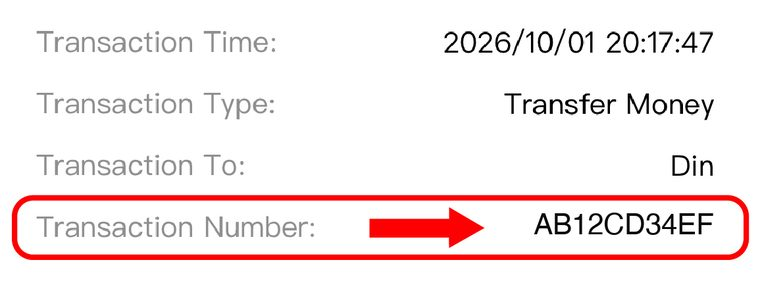
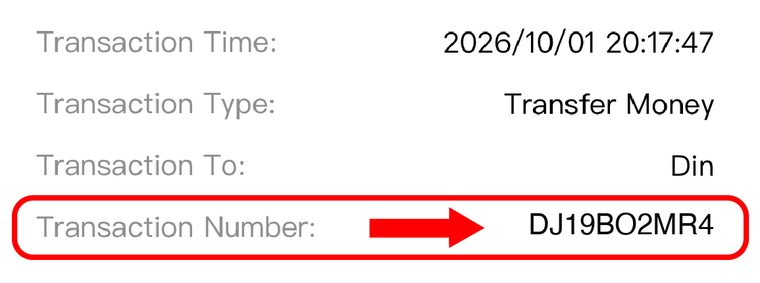
DJ-style example code, prominent amount, centered language chooser, no-flicker fixed bar

Changed region(s): [[0.6961, 0.735, 0.9382, 0.8481]]

diff --git a/i18n.js b/i18n.js
@@ -150,12 +150,12 @@
     "telebirr number": "የቴሌብር ቁጥር", "COPY": "ቅዳ", "Name shown in telebirr": "በቴሌብር የሚታየው ስም",
     "Step 02 — Enter your transaction number": "ደረጃ 02 — የግብይት ቁጥርዎን ያስገቡ",
     "After paying, open the telebirr receipt (or the SMS) and find the Transaction Number — 10 letters and numbers, like": "ከከፈሉ በኋላ የቴሌብር ደረሰኙን (ወይም SMSኡን) ከፍተው የግብይት ቁጥሩን (Transaction Number) ይፈልጉ — 10 ፊደሎችና ቁጥሮች፣ ለምሳሌ",
-    "e.g. AB12CD34EF": "ለምሳሌ AB12CD34EF", "CONFIRM PAYMENT": "ክፍያውን አረጋግጥ",
+    "e.g. DJ19BO2MR4": "ለምሳሌ DJ19BO2MR4", "CONFIRM PAYMENT": "ክፍያውን አረጋግጥ",
     "Being confirmed": "በማረጋገጥ ላይ", "We’re confirming your payment by hand.": "ክፍያዎን እያረጋገጥን ነው።", "Transaction": "ግብይት",
     "is with the registry office. This page unlocks by itself once it’s confirmed — you can close it and come back with the link below.": "በመዝገብ ቢሮው እየታየ ነው። ሲረጋገጥ ይህ ገጽ በራሱ ይከፈታል — ገጹን ዘግተው ከታች ባለው ሊንክ መመለስ ይችላሉ።",
     "Your private order link": "የግል የትዕዛዝ ሊንክዎ", "Keep it to come back to this order.": "ወደዚህ ትዕዛዝ ለመመለስ ያስቀምጡት።",
     "COPY LINK": "ሊንኩን ቅዳ", "Digital registration. No physical stone included. Questions?": "ዲጂታል ምዝገባ። አካላዊ ድንጋይ አይካተትም። ጥያቄ አለዎት?",
-    "Awaiting payment": "ክፍያ በመጠባበቅ ላይ", "Removed": "ተወግዷል",
+    "Awaiting payment": "ክፍያ በመጠባበቅ ላይ", "Amount": "መጠን", "Removed": "ተወግዷል",
     "transaction number is": "የግብይት ቁጥሩ", "↑ Copy the Transaction Number into the box below": "↑ የግብይት ቁጥሩን (Transaction Number) ከታች ባለው ሳጥን ውስጥ ያስገቡ",
     "telebirr receipt with the Transaction Number highlighted": "የግብይት ቁጥሩ የተመለከተበት የቴሌብር ደረሰኝ",
     "Checking your payment": "ክፍያዎን በማጣራት ላይ", "seconds": "ሰከንድ", "We’re matching transaction": "የግብይት ቁጥር",
@@ -170,7 +170,7 @@
     "Enter the transaction number from your telebirr SMS.": "ከቴሌብር SMS የግብይት ቁጥሩን ያስገቡ።",
     "This link is incomplete.": "ይህ ሊንክ ያልተሟላ ነው።", "Network error — check your connection and try again.": "የኔትወርክ ችግር — ግንኙነትዎን አረጋግጠው እንደገና ይሞክሩ።",
     /* server messages */
-    "That doesn’t look like a telebirr transaction ID. It’s the 10-character code in your SMS, e.g. AB12CD34EF.": "ይህ የቴሌብር የግብይት ቁጥር አይመስልም። በSMS ውስጥ ያለው ባለ 10 ሆሄ ኮድ ነው፣ ለምሳሌ AB12CD34EF።",
+    "That doesn’t look like a telebirr transaction ID. It’s the 10-character code in your SMS, e.g. DJ19BO2MR4.": "ይህ የቴሌብር የግብይት ቁጥር አይመስልም። በSMS ውስጥ ያለው ባለ 10 ሆሄ ኮድ ነው፣ ለምሳሌ DJ19BO2MR4።",
     "This transaction ID has already been used for another order.": "ይህ የግብይት ቁጥር ለሌላ ትዕዛዝ ጥቅም ላይ ውሏል።",
     "Too many attempts. Please contact us.": "በጣም ብዙ ሙከራዎች። እባክዎ ያግኙን።", "Order not found.": "ትዕዛዙ አልተገኘም።",
     "Add a recipient and your name.": "የተቀባዩን ስምና የእርስዎን ስም ያስገቡ።", "Unknown Dinguy.": "ያልታወቀ ድንጋይ።",
@@ -394,25 +394,30 @@
   function chooser() {
     if (stored()) return;
     var css = document.createElement('style');
-    css.textContent = '@keyframes dgl-in{from{opacity:0;transform:translate3d(-50%,16px,0)}to{opacity:1;transform:translate3d(-50%,0,0)}}' +
-      '#dg-lang{position:fixed;left:50%;bottom:calc(84px + env(safe-area-inset-bottom));z-index:150;width:min(calc(100vw - 24px),380px);transform:translate3d(-50%,0,0);' +
-      'background:rgba(11,23,32,.94);-webkit-backdrop-filter:blur(16px);backdrop-filter:blur(16px);color:#eef2f4;border:1px solid rgba(238,242,244,.2);' +
-      'box-shadow:0 24px 60px -20px rgba(0,0,0,.7);padding:16px;font-family:"Helvetica Neue",Helvetica,Arial,"Noto Sans Ethiopic",sans-serif;animation:dgl-in .45s cubic-bezier(.2,.8,.2,1) both}' +
-      '#dg-lang .k{font-family:"IBM Plex Mono",ui-monospace,monospace;font-size:10px;letter-spacing:.08em;text-transform:uppercase;color:#a9bccb}' +
-      '#dg-lang .q{margin:6px 0 12px;font-size:18px;font-weight:600;letter-spacing:-.01em}' +
-      '#dg-lang .r{display:grid;grid-template-columns:1fr 1fr;gap:8px}' +
-      '#dg-lang button{min-height:48px;border:1px solid rgba(238,242,244,.35);background:transparent;color:#eef2f4;font:inherit;font-size:15px;font-weight:600;cursor:pointer;touch-action:manipulation;-webkit-tap-highlight-color:transparent}' +
-      '#dg-lang button.on{background:#eef2f4;color:#0b1720;border-color:#eef2f4}';
+    css.textContent = '@keyframes dgl-in{from{opacity:0;transform:translate3d(-50%,-46%,0) scale(.96)}to{opacity:1;transform:translate3d(-50%,-50%,0) scale(1)}}' +
+      '@keyframes dgl-fade{from{opacity:0}to{opacity:1}}' +
+      '#dg-lang-bg{position:fixed;inset:0;z-index:149;background:rgba(0,0,0,.6);animation:dgl-fade .3s ease both;touch-action:none}' +
+      '#dg-lang{position:fixed;left:50%;top:50%;z-index:150;width:min(calc(100vw - 32px),380px);transform:translate3d(-50%,-50%,0);' +
+      'background:#f2c230;color:#0b0b0b;border-radius:22px;box-shadow:0 30px 80px -20px rgba(0,0,0,.8);padding:22px 18px 18px;text-align:center;' +
+      'font-family:"Helvetica Neue",Helvetica,Arial,"Noto Sans Ethiopic",sans-serif;animation:dgl-in .45s cubic-bezier(.2,.8,.2,1) both;-webkit-backface-visibility:hidden;backface-visibility:hidden}' +
+      '#dg-lang .k{font-family:"IBM Plex Mono",ui-monospace,monospace;font-size:11px;letter-spacing:.08em;text-transform:uppercase;color:rgba(11,11,11,.7)}' +
+      '#dg-lang .q{margin:8px 0 18px;font-size:22px;font-weight:700;letter-spacing:-.02em;line-height:1.2}' +
+      '#dg-lang .r{display:grid;grid-template-columns:1fr 1fr;gap:10px}' +
+      '#dg-lang button{min-height:60px;border-radius:14px;border:2px solid #0b0b0b;background:#0b0b0b;color:#f2c230;font:inherit;font-size:18px;font-weight:700;cursor:pointer;touch-action:manipulation;-webkit-tap-highlight-color:transparent}' +
+      '#dg-lang button[data-l=am]{background:#fff;color:#0b0b0b;border-color:#fff}';
     document.head.appendChild(css);
     var box = document.createElement('div');
     box.id = 'dg-lang'; box.setAttribute('role', 'dialog'); box.setAttribute('aria-label', 'Language / ቋንቋ');
     box.innerHTML = '<div class="k">Language · ቋንቋ</div><div class="q">Choose your language · ቋንቋ ይምረጡ</div>' +
-      '<div class="r"><button type="button" class="on" data-l="en">English</button><button type="button" data-l="am">አማርኛ</button></div>';
+      '<div class="r"><button type="button" data-l="en">English</button><button type="button" data-l="am">አማርኛ</button></div>';
     box.addEventListener('click', function (e) {
       var b = e.target.closest('button'); if (!b) return;
       if (b.getAttribute('data-l') === 'am') { window.dgLang.set('am'); return; }
-      save('en'); box.remove();
+      save('en'); box.remove(); var g = document.getElementById('dg-lang-bg'); if (g) g.remove();
     });
+    var bg = document.createElement('div'); bg.id = 'dg-lang-bg';
+    bg.addEventListener('click', function () { save('en'); bg.remove(); box.remove(); });
+    document.body.appendChild(bg);
     document.body.appendChild(box);
   }
   if (document.readyState === 'loading') document.addEventListener('DOMContentLoaded', function () { setTimeout(chooser, 600); });

diff --git a/index.html b/index.html
@@ -41,6 +41,7 @@ button,a,input,textarea,label,[role=button]{touch-action:manipulation;-webkit-ta
 .sw-ring::before{content:"";position:absolute;left:50%;top:50%;width:max(260%,180px);aspect-ratio:1;z-index:-1;background:conic-gradient(from 0deg,rgba(255,255,255,0) 0deg 230deg,rgba(255,255,255,.55) 300deg,#fff 345deg,rgba(255,255,255,0) 360deg);animation:sw-orbit 2.6s linear infinite;will-change:transform}
 @keyframes sw-orbit{from{transform:translate(-50%,-50%) rotate(0turn)}to{transform:translate(-50%,-50%) rotate(1turn)}}
 @keyframes sw-dots{0%,100%{opacity:.25}50%{opacity:1}}
+.dg-fixed{transform:translate3d(0,0,0);-webkit-backface-visibility:hidden;backface-visibility:hidden;will-change:transform;contain:layout paint}
 .dg-scroll{-webkit-overflow-scrolling:touch;overscroll-behavior-x:contain}
 .dg-overlay{overscroll-behavior:contain;-webkit-overflow-scrolling:touch}
 @media (pointer:coarse){
@@ -465,8 +466,9 @@ button,a,input,textarea,label,[role=button]{touch-action:manipulation;-webkit-ta
         <sc-if value="{{ po.note }}"><div role="alert" style="margin-top:20px;padding:14px 16px;background:#fbe9e7;border-left:3px solid #b3261e;font-size:15px;line-height:1.4">{{ po.note }}</div></sc-if>
         <section style="margin-top:32px">
           <div style="font-family:'IBM Plex Mono',ui-monospace,monospace;font-size:10px;letter-spacing:.08em;text-transform:uppercase;color:#435f73">Step 01 — Send the money</div>
-          <p style="margin:8px 0 0;font-size:17px;line-height:1.4">Send exactly <strong>{{ po.price }} Birr</strong> with telebirr to:</p>
+          <p style="margin:8px 0 0;font-size:17px;line-height:1.6">Send exactly <strong style="display:inline-block;padding:1px 8px;background:#ffd84d;color:#0b1720;font-size:22px;font-weight:800;letter-spacing:-.01em">{{ po.price }} Birr</strong> with telebirr to:</p>
           <div style="margin-top:12px;background:#0b1720;color:#e6ecef;padding:18px 16px">
+            <div style="display:flex;justify-content:space-between;align-items:baseline;gap:12px;padding-bottom:14px;margin-bottom:14px;border-bottom:1px solid rgba(230,236,239,.18)"><span style="font-family:'IBM Plex Mono',ui-monospace,monospace;font-size:10px;letter-spacing:.08em;text-transform:uppercase;color:#9fb6c6">Amount</span><span style="font-size:clamp(34px,10vw,44px);font-weight:800;letter-spacing:-.03em;line-height:1;color:#ffd84d">{{ po.price }} <span style="font-size:.5em;font-weight:700">Birr</span></span></div>
             <div style="display:flex;justify-content:space-between;align-items:center;gap:12px">
               <div><div style="font-family:'IBM Plex Mono',ui-monospace,monospace;font-size:10px;letter-spacing:.08em;text-transform:uppercase;color:#9fb6c6">telebirr number</div><div style="margin-top:4px;font-family:'IBM Plex Mono',ui-monospace,monospace;font-size:clamp(24px,6.4vw,34px);font-weight:500;letter-spacing:.02em">{{ po.phoneFmt }}</div></div>
               <button onClick="{{ copyPhone }}" style="flex:none;min-height:44px;padding:0 14px;background:#e6ecef;color:#0b1720;border:0;font-size:11px;font-weight:700;letter-spacing:.1em;cursor:pointer">COPY</button>
@@ -476,13 +478,13 @@ button,a,input,textarea,label,[role=button]{touch-action:manipulation;-webkit-ta
         </section>
         <section style="margin-top:28px">
           <label for="dg-txn" style="font-family:'IBM Plex Mono',ui-monospace,monospace;font-size:10px;letter-spacing:.08em;text-transform:uppercase;color:#435f73;display:block">Step 02 — Enter your transaction number</label>
-          <p style="margin:8px 0 0;font-size:15px;line-height:1.45;color:#2c4556">After paying, open the telebirr receipt (or the SMS) and find the Transaction Number — 10 letters and numbers, like <span style="font-family:'IBM Plex Mono',ui-monospace,monospace;color:#0b1720">AB12CD34EF</span>.</p>
+          <p style="margin:8px 0 0;font-size:15px;line-height:1.45;color:#2c4556">After paying, open the telebirr receipt (or the SMS) and find the Transaction Number — 10 letters and numbers, like <span style="font-family:'IBM Plex Mono',ui-monospace,monospace;color:#0b1720">DJ19BO2MR4</span>.</p>
           <figure style="margin:12px 0 0;max-width:380px">
             <img src="assets/telebirr-transaction-number.jpg" width="760" height="283" alt="telebirr receipt with the Transaction Number highlighted" loading="lazy" decoding="async" style="display:block;width:100%;height:auto;background:#fff;border:1px solid rgba(11,23,32,.14);border-radius:14px;box-shadow:0 14px 30px -22px rgba(0,0,0,.45)">
             <figcaption style="margin-top:8px;font-size:12px;font-weight:600;color:#0b1720">↑ Copy the Transaction Number into the box below</figcaption>
           </figure>
           <form onSubmit="{{ verifyPay }}" style="margin-top:12px;display:flex;flex-direction:column;gap:10px">
-            <input id="dg-txn" value="{{ po.txnInput }}" onChange="{{ setTxn }}" placeholder="e.g. AB12CD34EF" autocomplete="off" autocapitalize="characters" spellcheck="false" inputmode="text" maxlength="14" style="display:block;width:100%;height:60px;background:#f3f5f6;border:1px solid rgba(11,23,32,.3);padding:0 16px;font-family:'IBM Plex Mono',ui-monospace,monospace;font-size:22px;letter-spacing:.06em;text-transform:uppercase;outline:none;border-radius:0">
+            <input id="dg-txn" value="{{ po.txnInput }}" onChange="{{ setTxn }}" placeholder="e.g. DJ19BO2MR4" autocomplete="off" autocapitalize="characters" spellcheck="false" inputmode="text" maxlength="14" style="display:block;width:100%;height:60px;background:#f3f5f6;border:1px solid rgba(11,23,32,.3);padding:0 16px;font-family:'IBM Plex Mono',ui-monospace,monospace;font-size:22px;letter-spacing:.06em;text-transform:uppercase;outline:none;border-radius:0">
             <button type="submit" style="display:flex;align-items:center;justify-content:space-between;height:60px;padding:0 20px;background:#0b1720;color:#e6ecef;border:0;font-size:12px;font-weight:600;letter-spacing:.1em;cursor:pointer">CONFIRM PAYMENT<span>→</span></button>
             <div role="alert" style="min-height:1.3em;font-size:15px;line-height:1.4;color:#b3261e">{{ po.error }}</div>
           </form>
@@ -870,7 +872,7 @@ button,a,input,textarea,label,[role=button]{touch-action:manipulation;-webkit-ta
 
 <!-- STICKY MOBILE CTA -->
 <sc-if value="{{ showBar }}">
-  <div style="position:fixed;left:0;right:0;bottom:0;z-index:40;padding:10px 12px;padding-bottom:max(16px,env(safe-area-inset-bottom));background:linear-gradient(rgba(0,0,0,0),rgba(0,0,0,.35));pointer-events:none">
+  <div class="dg-fixed" style="position:fixed;left:0;right:0;bottom:0;z-index:40;padding:10px 12px;padding-bottom:max(16px,env(safe-area-inset-bottom));pointer-events:none">
     <button onClick="{{ barAction }}" style="pointer-events:auto;width:100%;display:flex;align-items:center;justify-content:space-between;height:56px;padding:0 18px;background:#0b1720;color:#eef2f4;border:1px solid rgba(238,242,244,.2);font-size:12px;font-weight:600;letter-spacing:.1em;cursor:pointer;box-shadow:0 12px 30px -10px rgba(0,0,0,.5)">{{ barLabel }}<span>{{ barRight }}</span></button>
   </div>
 </sc-if>

diff --git a/api/pay.js b/api/pay.js
@@ -9,7 +9,7 @@ export default async function handler(req, res) {
     const o = await loadOrder(id);
     if (!o || o.key !== key) return send(res, 404, { error: 'Order not found.' });
     if (o.status === 'paid' || o.status === 'review' || o.status === 'removed') return send(res, 200, publicOrder(o));
-    if (!/^[A-Z0-9]{8,14}$/.test(txn)) return send(res, 400, { error: 'That doesn’t look like a telebirr transaction ID. It’s the 10-character code in your SMS, e.g. AB12CD34EF.' });
+    if (!/^[A-Z0-9]{8,14}$/.test(txn)) return send(res, 400, { error: 'That doesn’t look like a telebirr transaction ID. It’s the 10-character code in your SMS, e.g. DJ19BO2MR4.' });
     if (await limited('pay:' + o.id, 12, 86400)) return send(res, 429, { error: 'Too many attempts. Please contact us.' });
 
     // One transaction ID can only ever unlock one order.
